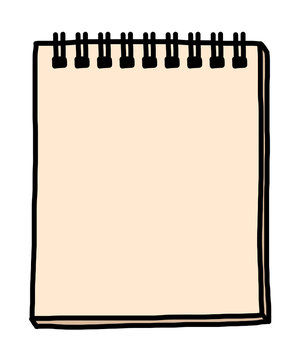
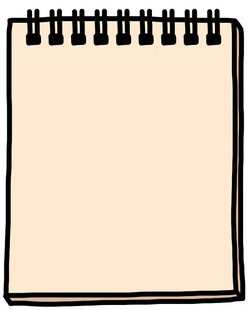
Add files via upload

diff --git a/style.css b/style.css
@@ -79,19 +79,51 @@ body {
 
 .notebook {
     margin-top: 0px;
-    background-image: url(img/notebook.jpg);
+    background-image: url(img/notebook-nbg.jpg);
     background-repeat: no-repeat;
     background-position: 50%;
     background-size: 650px;
     height: 100vh;
-  
 }
 
 .paragraph {
     width: 400px;
-    position: relative;
+    position: absolute;
     left: 50%;
     top: 50%;
     transform: translate(-50%, -50%);
 
+}
+
+@media screen and (max-width: 400px) {
+    
+    .container {
+        padding: 0 20px;
+    }
+
+    .container img {
+        width: 50px;
+        height: 50px;
+    }
+    
+    .notebook {
+        margin-top: 0px;
+        background-image: url(img/notebook-nbg.png);
+        background-repeat: no-repeat;
+        background-position: 50%;
+        background-size: contain;
+        height: 120vh;
+    }
+
+    .paragraph {
+        width: 300px;
+        position: absolute;
+        left: 50%;
+        top: 50%;
+        transform: translate(-50%, -50%);
+    }
+
+    .paragraph p {
+        font-size: 12px;
+    }
 }

diff --git a/index.html b/index.html
@@ -13,13 +13,13 @@
 
     <div class="container">
 
-        <img class="ht11" src="img/ht1.gif" alt="">
+        <!-- <img class="ht11" src="img/ht1.gif" alt="">
         <img class="ht12" src="img/ht1.gif" alt="">
         <img class="ht13" src="img/ht1.gif" alt="">
 
         <img class="ht14" src="img/ht1.gif" alt="">
         <img class="ht15" src="img/ht1.gif" alt="">
-        <img class="ht16" src="img/ht1.gif" alt="">
+        <img class="ht16" src="img/ht1.gif" alt=""> -->
 
         <!-- <img class="ht17" src="img/ht1.gif" alt="">
         <img class="ht18" src="img/ht1.gif" alt="">
